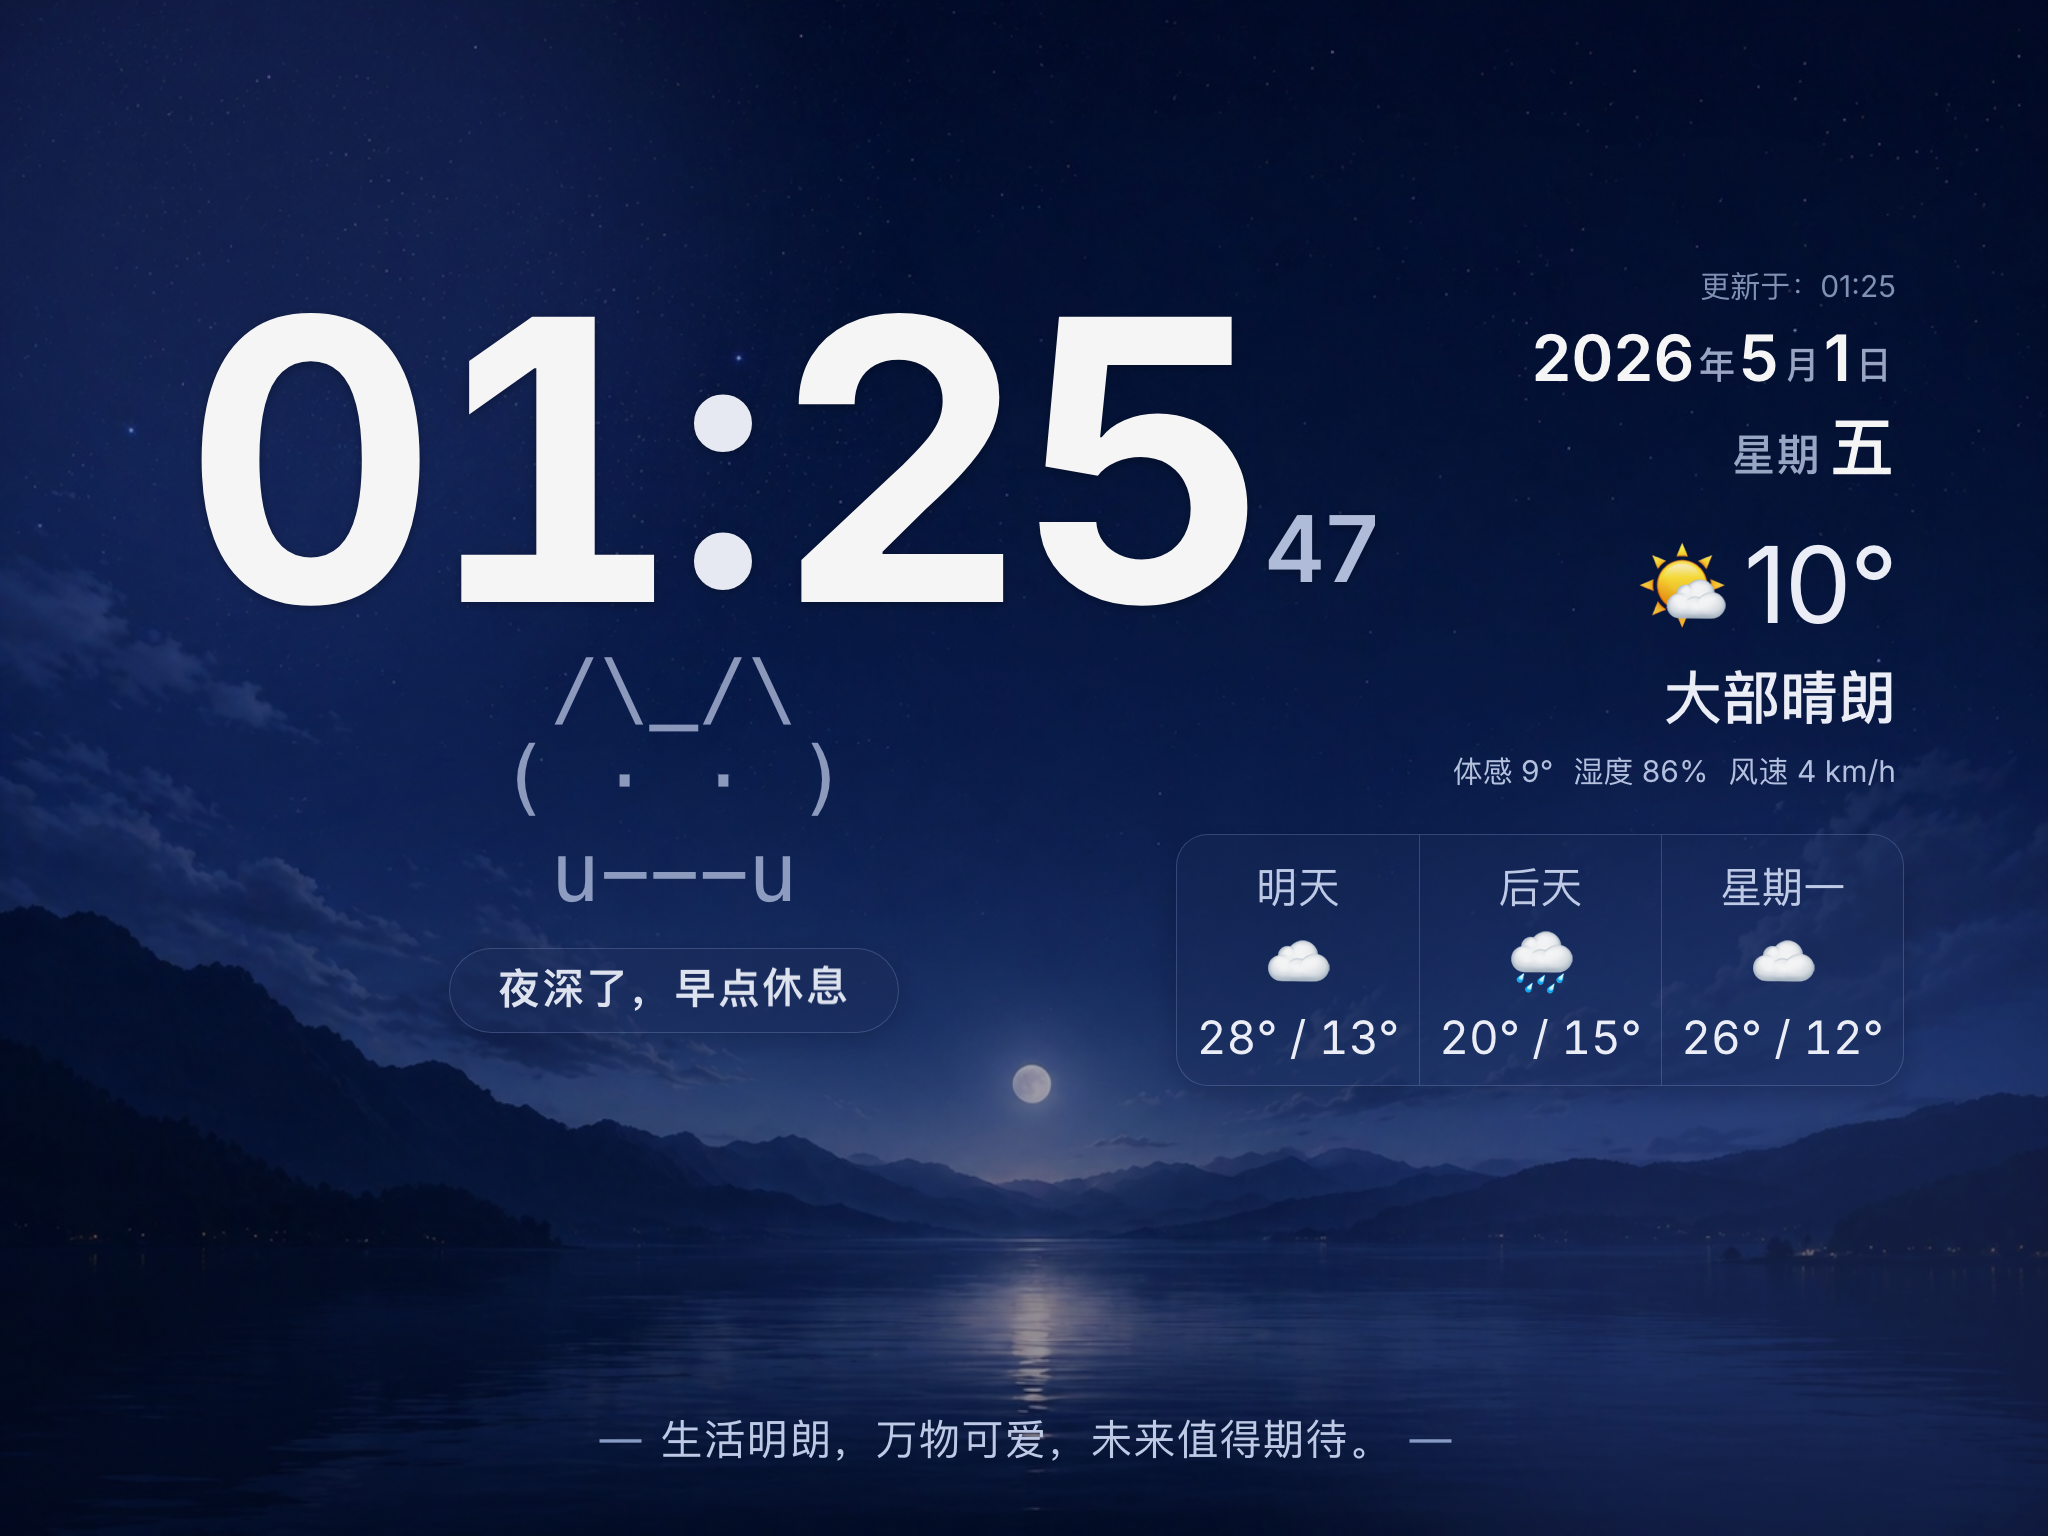
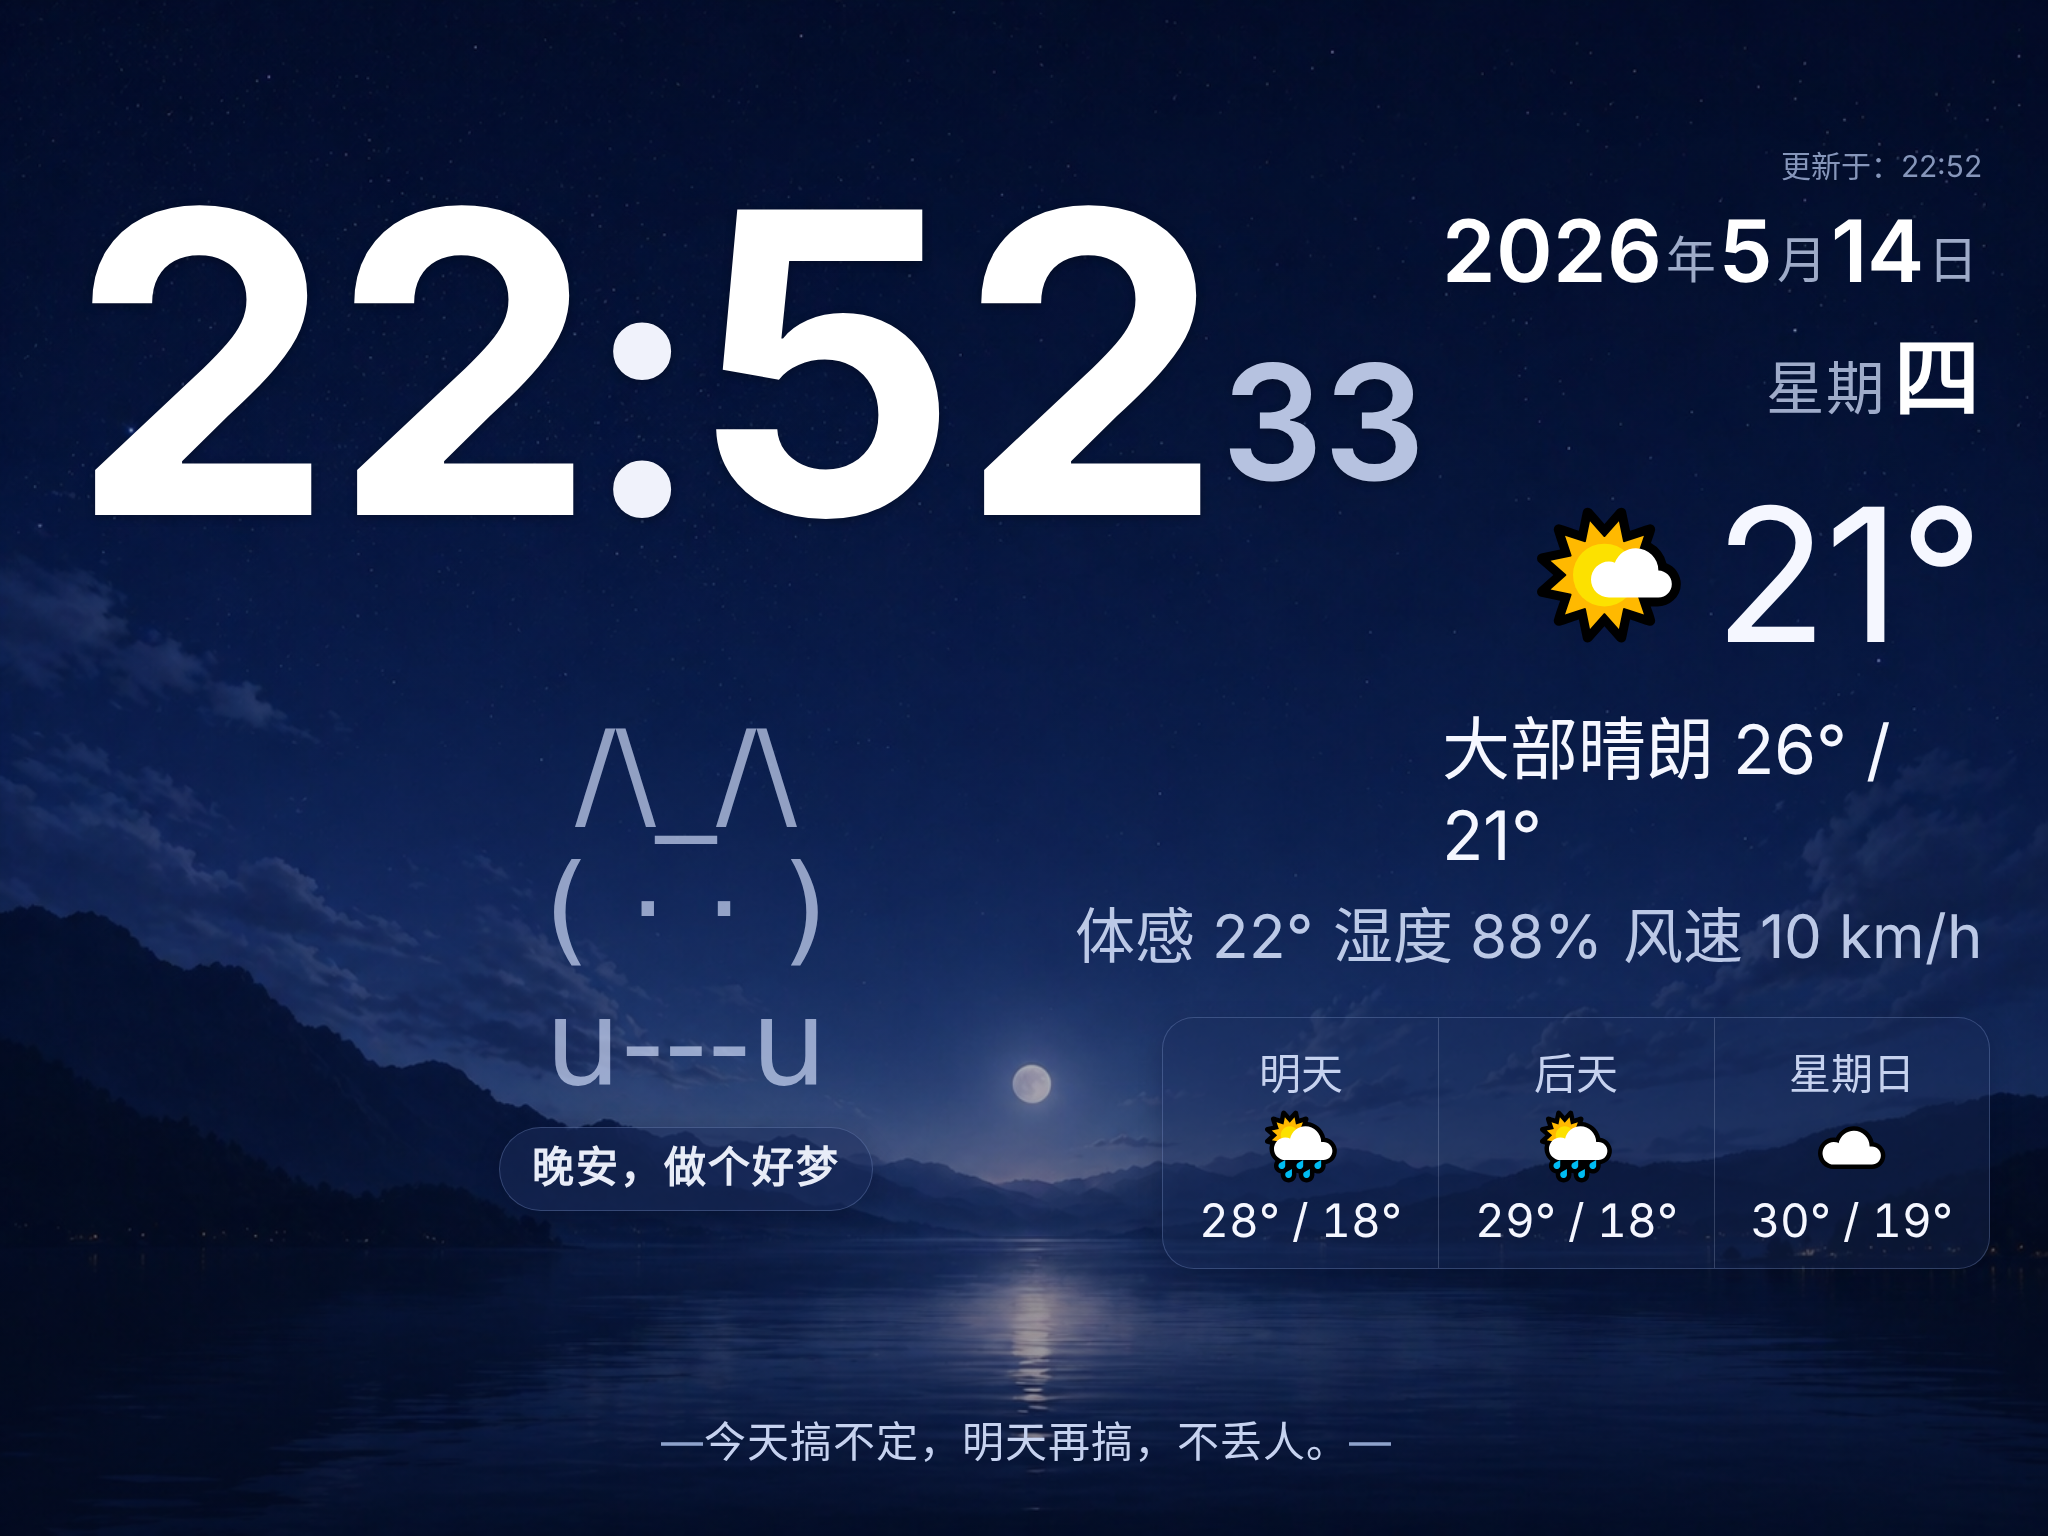
feat: 省电休眠模式 + iOS 主屏幕缓存绕过 + 定位超时兜底
- 凌晨 01:00~07:30 自动进入休眠（黑屏遮罩 + 暂停所有动效）
- 新增 nginx /clock/ 路由，绕过 iOS WebClip 独立缓存
- getGeoLocation 加 setTimeout 5s 超时兜底，解决 iOS
  standalone 模式定位弹窗不出导致 Promise 永久卡死的问题
- 调试完毕后清除调试代码

diff --git a/index.html b/index.html
@@ -13,8 +13,11 @@
     />
     <meta name="apple-mobile-web-app-title" content="客厅时钟" />
     <meta name="format-detection" content="telephone=no" />
+    <meta http-equiv="Cache-Control" content="no-cache, no-store, must-revalidate" />
+    <meta http-equiv="Pragma" content="no-cache" />
+    <meta http-equiv="Expires" content="0" />
     <title>客厅时钟</title>
-    <link rel="manifest" href="manifest.json" />
+    <link rel="manifest" href="manifest.json?v=2" />
     <link rel="apple-touch-icon" href="icon-192.png" />
     <link rel="icon" type="image/png" href="icon-192.png" />
     <style>
@@ -654,11 +657,41 @@
       .dock-center::after {
         content: "—";
         color: #8ea2cb;
-        margin: 0 18px;
+      }
+
+      /* 休眠遮罩 */
+      .sleep-overlay {
+        position: absolute;
+        left: 0;
+        top: 0;
+        width: 100%;
+        height: 100%;
+        background: #000;
+        display: flex;
+        align-items: center;
+        justify-content: center;
+        opacity: 0;
+        pointer-events: none;
+        transition: opacity 1.5s ease;
+        z-index: 100;
+        border-radius: inherit;
+      }
+      .sleep-overlay.active {
+        opacity: 0.85;
+        pointer-events: auto;
+      }
+      .sleep-overlay-text {
+        color: #fff;
+        font-size: 48px;
+        font-weight: 300;
+        letter-spacing: 0.15em;
+        opacity: 0.5;
+        user-select: none;
       }
     </style>
   </head>
   <body class="loading">
+
     <div class="stage" id="stage">
       <div class="container">
         <div class="top-panel">
@@ -724,6 +757,10 @@
         <div class="bottom-dock">
           <div class="dock-center" id="dockCenterText"></div>
         </div>
+      </div>
+      <!-- 休眠遮罩 -->
+      <div class="sleep-overlay" id="sleepOverlay">
+        <div class="sleep-overlay-text">屏幕休眠中</div>
       </div>
     </div>
 
@@ -821,6 +858,43 @@
         var lastSecTick = null;
         var greetingCharCount = 0;
         var clockPaused = false;
+
+        /* 省电休眠：凌晨 01:00 ~ 07:30 停止所有动态内容 */
+        var SLEEP_START_H = 1, SLEEP_START_M = 0;
+        var SLEEP_END_H = 7, SLEEP_END_M = 30;
+        var sleepMode = false;
+        var $sleepOverlay = document.getElementById("sleepOverlay");
+        var sleepWakeTimer = null;
+
+        function isSleepTime() {
+          var now = new Date();
+          var h = now.getHours(), m = now.getMinutes();
+          var cur = h * 60 + m;
+          var start = SLEEP_START_H * 60 + SLEEP_START_M;
+          var end = SLEEP_END_H * 60 + SLEEP_END_M;
+          if (start <= end) return cur >= start && cur < end;
+          return cur >= start || cur < end;
+        }
+
+        function updateSleepMode() {
+          var sleeping = isSleepTime();
+          if (sleeping === sleepMode) return;
+          sleepMode = sleeping;
+          if (sleepMode) {
+            $sleepOverlay.classList.add("active");
+            clockPaused = true;
+            if (sleepWakeTimer) clearTimeout(sleepWakeTimer);
+            /* 每分钟检查一次是否该唤醒 */
+            sleepWakeTimer = setInterval(function () {
+              if (!isSleepTime()) updateSleepMode();
+            }, 60000);
+          } else {
+            $sleepOverlay.classList.remove("active");
+            clockPaused = false;
+            if (sleepWakeTimer) { clearInterval(sleepWakeTimer); sleepWakeTimer = null; }
+            updateClock();
+          }
+        }
         var lastH = "";
         var lastM = "";
         var lastS = "";
@@ -961,6 +1035,7 @@
           var ms = now % 1000;
           var delay = ms === 0 ? 1000 : 1000 - ms;
           setTimeout(function () {
+            updateSleepMode();
             if (!clockPaused) updateClock();
             scheduleClock();
           }, delay);
@@ -1107,14 +1182,28 @@
               resolve(null);
               return;
             }
+            /* iOS standalone 模式下定位弹窗不显示会导致回调永不触发，
+               因此用 setTimeout 兜底，确保始终 resolve */
+            var timer = setTimeout(function () {
+              timer = null;
+              resolve(null);
+            }, 5000);
             navigator.geolocation.getCurrentPosition(
               function (pos) {
+                if (timer !== null) {
+                  clearTimeout(timer);
+                  timer = null;
+                }
                 resolve({
                   lat: pos.coords.latitude,
                   lng: pos.coords.longitude,
                 });
               },
               function () {
+                if (timer !== null) {
+                  clearTimeout(timer);
+                  timer = null;
+                }
                 resolve(null);
               },
               { timeout: 5000 }
@@ -1155,6 +1244,7 @@
             if (document.visibilityState === "hidden") return true;
             if (typeof document.hidden !== "undefined" && document.hidden)
               return true;
+            if (sleepMode) return true;
             return false;
           }
 
@@ -1321,14 +1411,20 @@
 
         updateStageScale();
         window.addEventListener("resize", updateStageScale);
+        updateSleepMode();
         updateClock();
         scheduleClock();
         initPetCat();
 
-        /* 页面不可见时暂停时钟更新，减少 GPU/CPU 开销 */
+        /* 页面不可见或休眠时暂停更新 */
         document.addEventListener("visibilitychange", function () {
-          clockPaused = !!document.hidden;
-          if (!clockPaused) updateClock();
+          if (document.hidden) {
+            clockPaused = true;
+          } else {
+            updateSleepMode();
+            clockPaused = false;
+            updateClock();
+          }
         });
 
         getGeoLocation().then(function (geo) {

diff --git a/README.md b/README.md
@@ -1,25 +1,39 @@
 # Living Room Dashboard
 
-客厅大屏页面 — 时钟 + 天气显示。
+客厅大屏页面 — 时钟 + 天气 + ASCII 猫，适配 iPad 壁挂大屏。
 
 ## 预览
 
 ![screenshot](screenshot-2048x1536.png)
 
-直接打开 `index.html` 即可在浏览器中查看。
-
 ## 功能
 
-- 实时时钟显示
-- 天气信息展示
-- 支持 iOS 10.3.3 添加到主屏幕（standalone 模式）
-- 支持 PWA manifest（iOS 16.4+ / Android Chrome）
+- **实时时钟** — 秒级对齐，页面不可见时暂停省电
+- **天气信息** — 调用 Open-Meteo API（无需 API Key），自动定位，失败回退杭州坐标
+- **ASCII 猫** — idle / blink / walk 状态机动画
+- **问候语** — 按时段展示猫主题中文短句
+- **省电休眠** — 凌晨 01:00 ~ 07:30 自动进入休眠（黑色遮罩 + 暂停所有动效）
+- **iOS 添加到主屏幕** — 支持 standalone 模式（通过 `/clock/` 路由绕过 WebClip 缓存）
 
 ## 使用
 
 ```bash
 # 本地查看
 open index.html
-# 或用任意静态服务
+
+# 静态服务
 python3 -m http.server 8080
 ```
+
+## 部署
+
+生产环境通过 nginx 反代 `python -m http.server 8080`，提供 HTTPS。
+
+| 路由 | 说明 |
+|------|------|
+| `https://gucx.top/` | 域名访问 |
+| `https://IP/clock/` | iOS 主屏幕专用路由，规避 WebClip 缓存问题 |
+
+### iOS 注意事项
+
+从主屏幕打开时，`navigator.geolocation.getCurrentPosition()` 因权限弹窗不显示会永久卡住。已在 `getGeoLocation()` 中通过 `setTimeout 5s` 超时兜底，超时后使用默认坐标。`/clock/` 路由用于绕过 iOS 的独立 WebClip 缓存层。